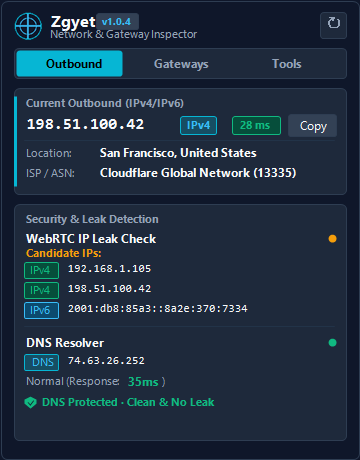
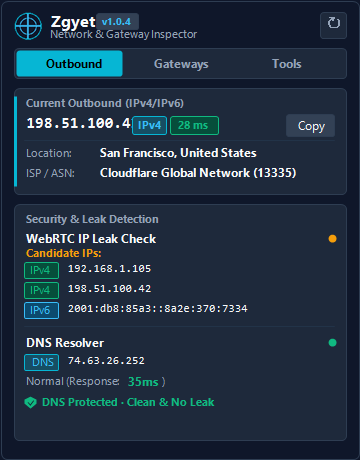
style(ui): group IP type and latency badges closely, separate copy button with balanced spacing

Changed region(s): [[0.0611, 0.2435, 0.6111, 0.3043], [0.6417, 0.2435, 0.7944, 0.3043], [0.825, 0.2435, 0.9167, 0.3043]]

diff --git a/popup.html b/popup.html
@@ -41,12 +41,12 @@
         <div class="ip-display-row">
           <div class="ip-text-wrap">
             <span id="outbound-ip" class="ip-value" data-i18n="detecting">Detecting...</span>
-            <span id="ip-version-badge" class="badge badge-accent">IP</span>
+            <div class="ip-badges">
+              <span id="ip-version-badge" class="badge badge-accent">IP</span>
+              <span id="latency-badge" class="badge badge-neutral">-- ms</span>
+            </div>
           </div>
-          <div class="ip-actions">
-            <span id="latency-badge" class="badge badge-neutral">-- ms</span>
-            <button id="btn-copy-ip" class="btn-sm" data-i18n="btnCopy" title="Copy IP">Copy</button>
-          </div>
+          <button id="btn-copy-ip" class="btn-sm" data-i18n="btnCopy" title="Copy IP">Copy</button>
         </div>
         <div class="meta-row">
           <div class="meta-item">

diff --git a/styles.css b/styles.css
@@ -199,7 +199,7 @@ body {
   display: flex;
   align-items: center;
   justify-content: space-between;
-  gap: 8px;
+  gap: 10px;
 }
 
 .ip-text-wrap {
@@ -211,10 +211,10 @@ body {
   min-width: 0;
 }
 
-.ip-actions {
-  display: flex;
+.ip-badges {
+  display: inline-flex;
   align-items: center;
-  gap: 6px;
+  gap: 4px;
   flex-shrink: 0;
 }
 
@@ -243,6 +243,7 @@ body {
   display: inline-flex;
   align-items: center;
   justify-content: center;
+  line-height: 1.2;
 }
 
 .badge-neutral {
@@ -279,11 +280,13 @@ body {
   color: var(--text-main);
   border: 1px solid var(--border);
   border-radius: var(--radius-sm);
-  padding: 4px 8px;
+  padding: 3px 9px;
   font-size: 11px;
+  font-weight: 500;
   cursor: pointer;
   transition: all 0.2s;
   white-space: nowrap;
+  flex-shrink: 0;
 }
 
 .btn-sm:hover {
